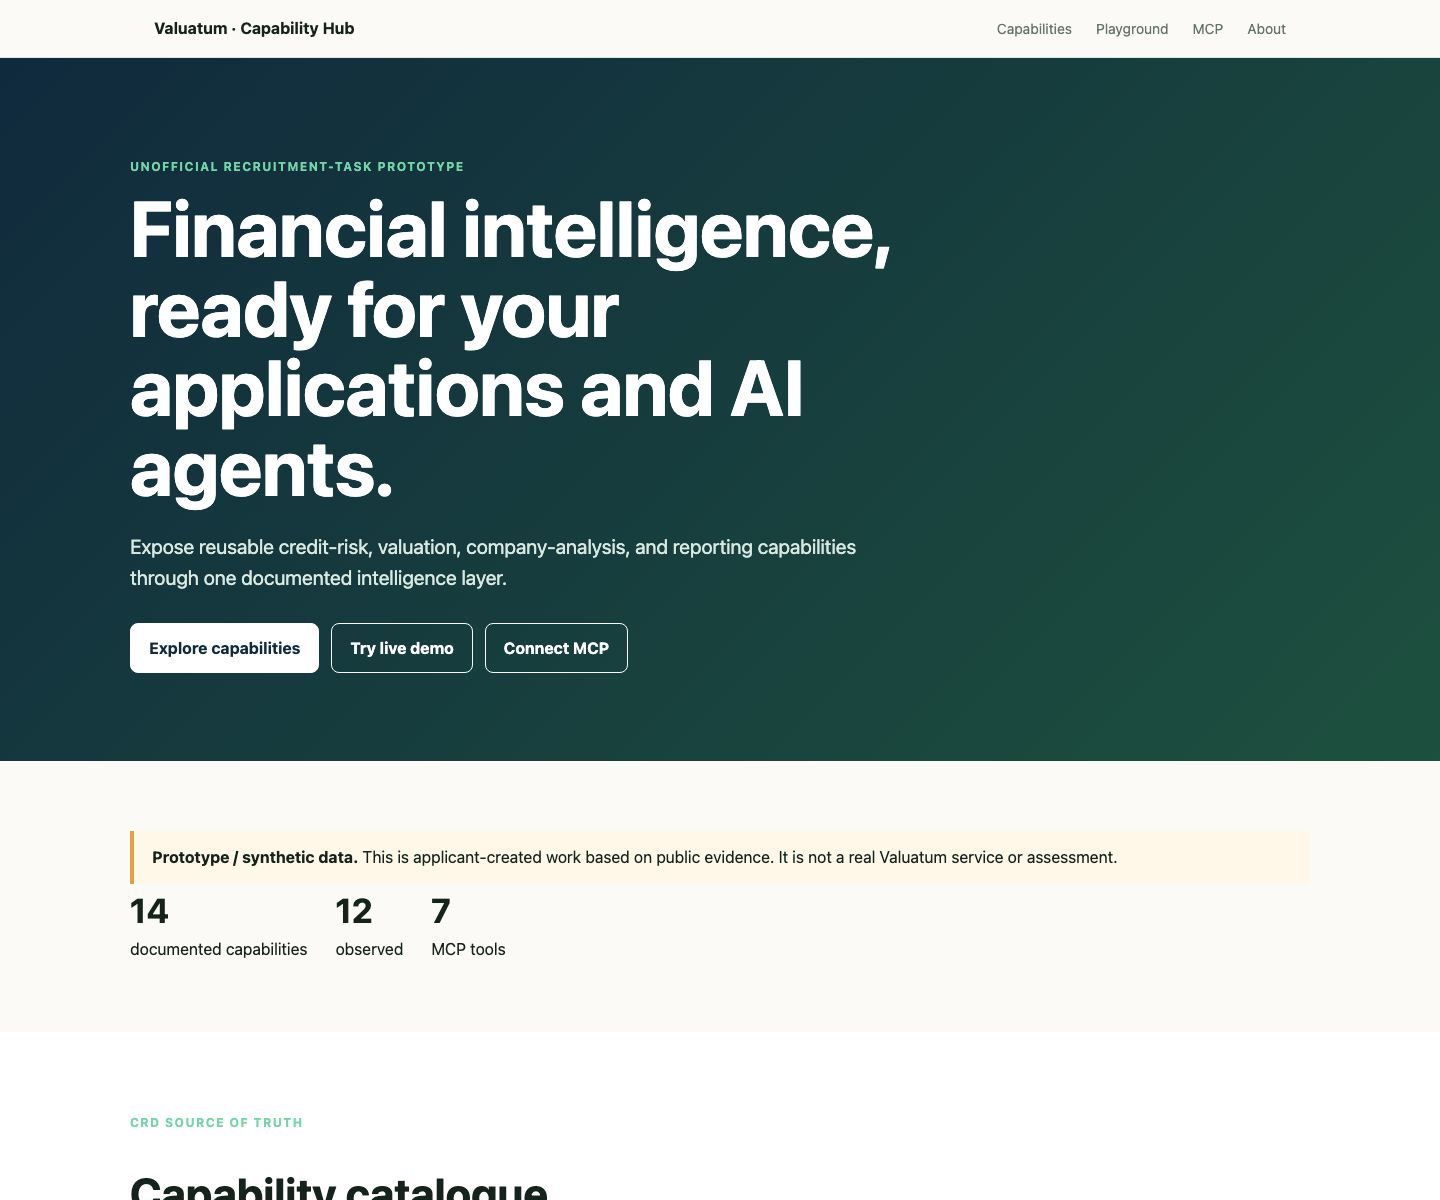
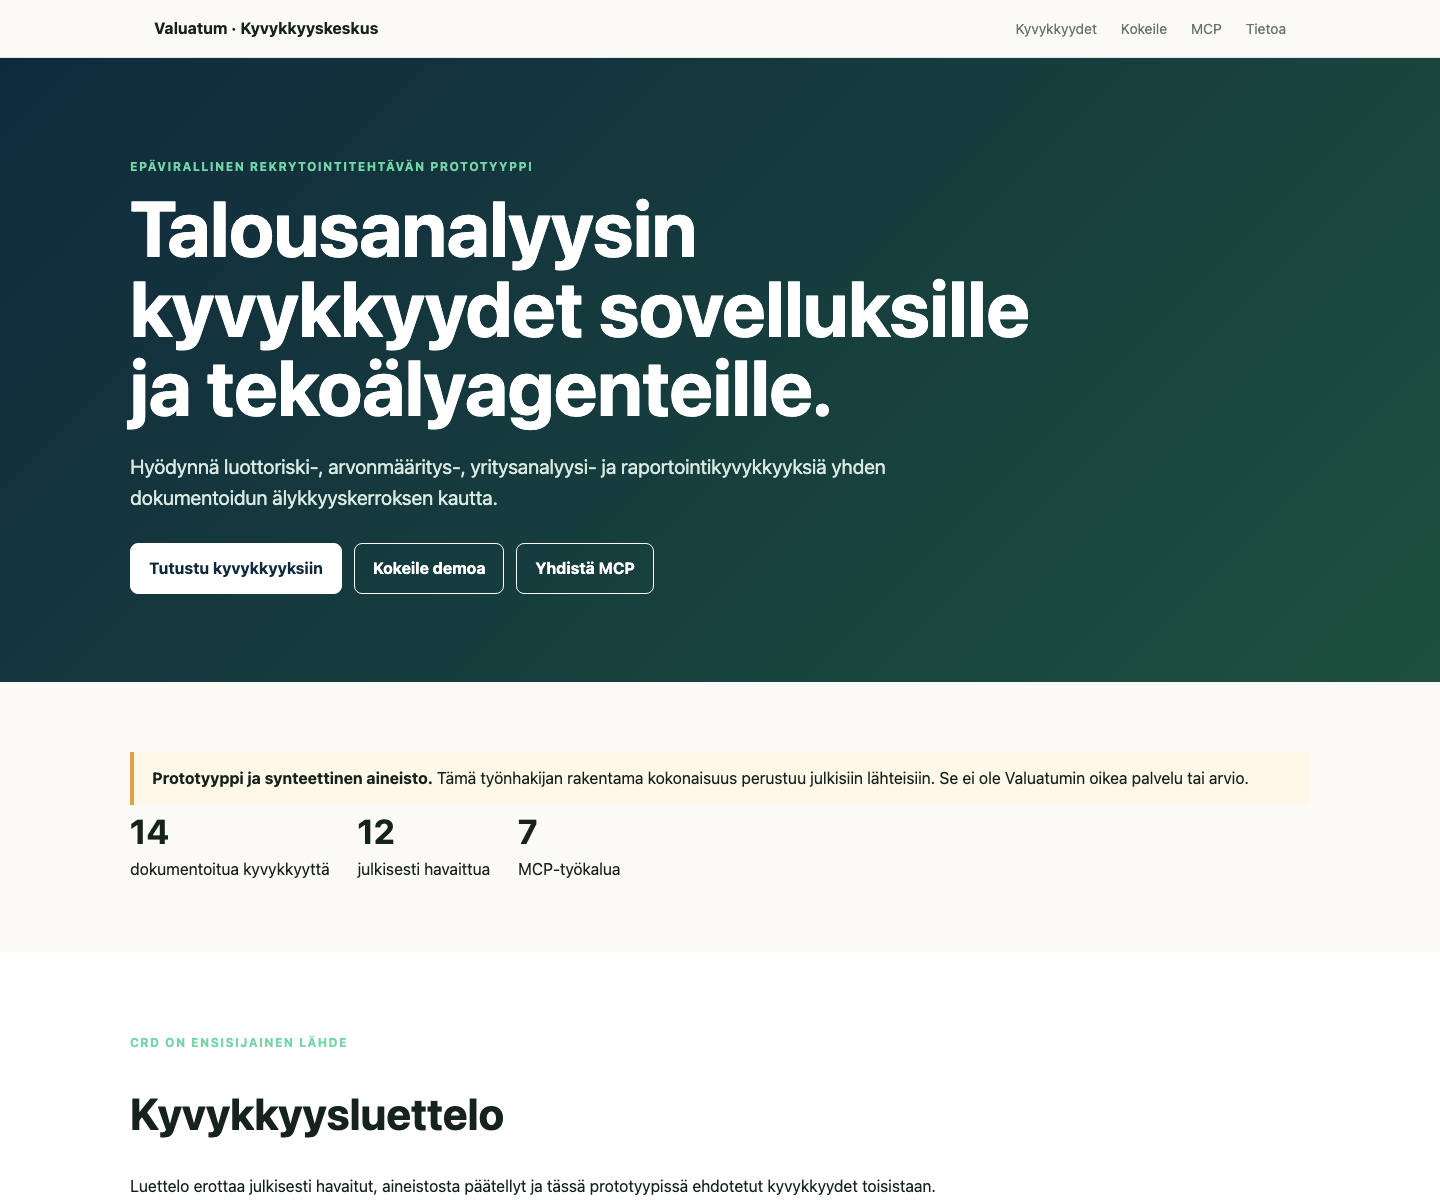
Publish Finnish capability site

diff --git a/site/src/app.js b/site/src/app.js
@@ -1,3 +1,109 @@
-const cards=[...document.querySelectorAll('[data-capability]')];const q=document.querySelector('#search');const status=document.querySelector('#status');const family=document.querySelector('#family');function filter(){const text=(q?.value||'').toLowerCase();cards.forEach(card=>{const okText=card.textContent.toLowerCase().includes(text);const okStatus=!status?.value||card.dataset.status===status.value;const okFamily=!family?.value||card.dataset.family===family.value;card.hidden=!(okText&&okStatus&&okFamily)})}[q,status,family].forEach(el=>el?.addEventListener('input',filter));
-const form=document.querySelector('#demo-form');form?.addEventListener('submit',async event=>{event.preventDefault();const output=document.querySelector('#demo-output');output.textContent='Loading synthetic decision brief…';const base=document.body.dataset.apiBase||'http://localhost:8080';try{const response=await fetch(`${base}/api/create_decision_brief`,{method:'POST',headers:{'content-type':'application/json'},body:JSON.stringify({company_id:form.company_id.value,decision_context:form.decision_context.value})});output.textContent=JSON.stringify(await response.json(),null,2)}catch(error){output.textContent=`Live endpoint unavailable. Run the local MCP service or configure MCP_BASE_URL during the site build.\n\n${error.message}`}});
+const cards = [...document.querySelectorAll('[data-capability]')];
+const query = document.querySelector('#search');
+const status = document.querySelector('#status');
+const family = document.querySelector('#family');
 
+function filterCapabilities() {
+  const text = (query?.value || '').toLowerCase();
+  cards.forEach(card => {
+    const textMatches = card.textContent.toLowerCase().includes(text);
+    const statusMatches = !status?.value || card.dataset.status === status.value;
+    const familyMatches = !family?.value || card.dataset.family === family.value;
+    card.hidden = !(textMatches && statusMatches && familyMatches);
+  });
+}
+
+[query, status, family].forEach(element => element?.addEventListener('input', filterCapabilities));
+
+const contexts = {
+  supplier: 'Toimittajan arviointi',
+  credit: 'Luottopäätös',
+  'acquisition-screening': 'Yritysostokohteen esiarviointi',
+  general: 'Yleinen tarkastelu'
+};
+const riskLevels = { 'very low': 'erittäin matala', low: 'matala', moderate: 'kohtalainen', elevated: 'kohonnut', high: 'korkea' };
+const industries = {
+  'Industrial components': 'Teollisuuskomponentit',
+  'Data software': 'Dataohjelmistot',
+  Logistics: 'Logistiikka',
+  'Food distribution': 'Elintarvikejakelu',
+  'Specialty retail': 'Erikoisvähittäiskauppa',
+  'Energy technology': 'Energiateknologia'
+};
+const driverTranslations = {
+  'Profitable three-year operating history': 'Kannattava kolmen vuoden toimintahistoria',
+  'Equity ratio remains solid': 'Omavaraisuusaste on säilynyt vahvana',
+  'Debt increased moderately with investment': 'Velka kasvoi maltillisesti investoinnin yhteydessä',
+  'Rapid revenue growth': 'Nopea liikevaihdon kasvu',
+  'Recently reached operating profitability': 'Liiketoiminta on saavuttanut hiljattain kannattavuuden',
+  'Cash buffer declined while debt increased': 'Kassapuskuri pieneni velan kasvaessa',
+  'High leverage': 'Korkea velkaantuneisuus',
+  'Declining operating margin': 'Heikkenevä liikevoittomarginaali',
+  'Thin cash buffer': 'Ohut kassapuskuri',
+  'Stable profitability': 'Vakaa kannattavuus',
+  'Strengthening equity': 'Vahvistuva oma pääoma',
+  'Declining debt': 'Pienenevä velkamäärä',
+  'Revenue decline': 'Liikevaihdon lasku',
+  'Operating loss': 'Liiketappio',
+  'Weakening liquidity and equity': 'Heikkenevä maksuvalmius ja oma pääoma',
+  'Growing revenue and earnings': 'Kasvava liikevaihto ja tulos',
+  'Healthy equity base': 'Vahva oman pääoman asema',
+  'Manageable leverage': 'Hallittava velkaantuneisuus'
+};
+const summaries = {
+  'northstar-components-oy': 'Vakiintunut komponenttivalmistaja investoi uuteen tuotantolinjaan.',
+  'aurora-analytics-oy': 'Nopeasti kasvava analytiikkayhtiö on saavuttanut juuri kannattavuuden, mutta kassavarat ovat pienentyneet.',
+  'granite-logistics-ab': 'Alueellinen logistiikkayhtiö toimii suuren kalustorahoituksen varassa.',
+  'harbor-foods-as': 'Vakaa ja kypsä elintarvikejakelija kasvaa maltillisesti.',
+  'ember-retail-aps': 'Vähittäiskauppaketju kärsii laskevasta myymäläliikenteestä ja uudelleenjärjestelykuluista.',
+  'polar-grid-plc': 'Kuvitteellinen listattu energiateknologiayhtiö kasvaa kansainvälisesti.'
+};
+
+const euros = value => new Intl.NumberFormat('fi-FI', { style: 'currency', currency: 'EUR', maximumFractionDigits: 0 }).format(value);
+const form = document.querySelector('#demo-form');
+
+form?.addEventListener('submit', async event => {
+  event.preventDefault();
+  const output = document.querySelector('#demo-output');
+  output.textContent = 'Koostetaan synteettistä päätösmuistiota…';
+  const base = document.body.dataset.apiBase || 'http://localhost:8080';
+  try {
+    const response = await fetch(`${base}/api/create_decision_brief`, {
+      method: 'POST',
+      headers: { 'content-type': 'application/json' },
+      body: JSON.stringify({ company_id: form.company_id.value, decision_context: form.decision_context.value })
+    });
+    const value = await response.json();
+    if (!response.ok) throw new Error(value.error || 'Tuntematon palveluvirhe');
+    output.textContent = [
+      'SYNTEETTINEN PÄÄTÖSMUISTIO', '',
+      `Konteksti: ${contexts[value.decisionContext] || value.decisionContext}`,
+      `Yritys: ${value.company.name}`,
+      `Maa ja toimiala: ${value.company.country} · ${industries[value.company.industry] || value.company.industry}`, '',
+      'YHTEENVETO', summaries[value.company.id] || value.summary, '',
+      'TALOUDELLINEN TILANNE',
+      `Liikevaihto: ${euros(value.financialCondition.latest.turnover)}`,
+      `Liikevoitto: ${euros(value.financialCondition.latest.operatingResult)}`,
+      `Liikevaihdon kasvu: ${value.financialCondition.turnoverGrowthPercent} %`,
+      `Omavaraisuusaste: ${value.financialCondition.latest.ratios.equityRatio} %`, '',
+      'LUOTTORISKI',
+      `Luokitus: ${value.creditRisk.rating}`,
+      `Riskitaso: ${riskLevels[value.creditRisk.riskLevel] || value.creditRisk.riskLevel}`,
+      `Luottamus: ${Math.round(value.creditRisk.confidence * 100)} %`,
+      `Keskeiset tekijät: ${value.creditRisk.drivers.map(driver => driverTranslations[driver] || driver).join('; ')}`, '',
+      'ARVONMÄÄRITYSKONTEKSTI',
+      `Havainnollinen vaihteluväli: ${euros(value.valuationContext.low)}–${euros(value.valuationContext.high)}`,
+      `Keskipiste: ${euros(value.valuationContext.midpoint)}`, '',
+      'EPÄVARMUUDET',
+      '• Synteettiset luvut eivät osoita todellista luottokelpoisuutta tai yrityksen arvoa.',
+      '• Mukana ei ole laadullista yritystarkastusta, oikeudellista arviota, maksuhistoriaa tai ajantasaista markkinatietoa.', '',
+      'JATKOKYSYMYKSET',
+      '• Kuinka suuri vastuu ja millaiset maksuehdot ovat kyseessä?',
+      '• Mitkä viimeaikaiset tapahtumat eivät näy historiatiedoissa?',
+      '• Mitkä ihmisen hyväksynnät ja ulkoiset tarkistukset tarvitaan?', '',
+      'Prototyyppi / synteettinen aineisto. Ei Valuatumin todellinen arvio.'
+    ].join('\n');
+  } catch (error) {
+    output.textContent = `Live-palvelu ei ole käytettävissä. Yritä hetken kuluttua uudelleen.\n\n${error.message}`;
+  }
+});
